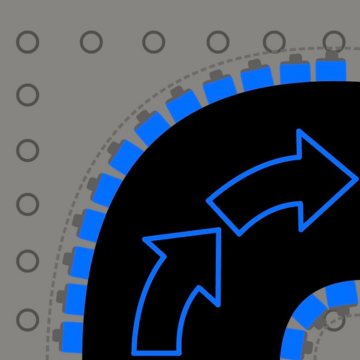
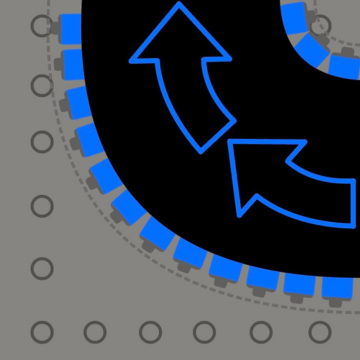
blue green and curved conveybelts show as  intendend

diff --git a/types/boardElements.ts b/types/boardElements.ts
@@ -74,10 +74,23 @@ export function getElementImage(elements: BoardElement[] | undefined): string | 
   // Handle conveyors based on their beltType
   const belt = elements.find((element) => element.type === 'CONVEYOR_BELT');
   if (belt) {
-    return belt.beltType === 'BLUE'
-      ? '/boardElements/conveyor_blue_straight.png'
-      : '/boardElements/conveyor_green_straight.png';
+  switch (belt.beltType) {
+    case 'BLUE_STRAIGHT':
+      return '/boardElements/conveyor_blue_straight.png';
+    case 'BLUE_LEFT_CURVE':
+      return '/boardElements/conveyor_blue_left.png';
+    case 'BLUE_RIGHT_CURVE':
+      return '/boardElements/conveyor_blue_right.png';
+    case 'GREEN_STRAIGHT':
+      return '/boardElements/conveyor_green_straight.png';
+    case 'GREEN_LEFT_CURVE':
+      return '/boardElements/conveyor_green_left.png';
+    case 'GREEN_RIGHT_CURVE':
+      return '/boardElements/conveyor_green_right.png';
+    default:
+      return null;
   }
+}
 
   return null;
 }

diff --git a/types/board.ts b/types/board.ts
@@ -11,7 +11,14 @@ export type Direction = 'NORTH' | 'EAST' | 'SOUTH' | 'WEST';
 
 export type BoardElement =
   | { type: 'WALL'; side: Direction }
-  | { type: 'CONVEYOR_BELT'; direction: Direction; beltType: 'GREEN' | 'BLUE'; length: number }
+  | { type: 'CONVEYOR_BELT'; direction: Direction; beltType:
+                                          | 'BLUE_STRAIGHT'
+                                          | 'BLUE_LEFT_CURVE'
+                                          | 'BLUE_RIGHT_CURVE'
+                                          | 'GREEN_STRAIGHT'
+                                          | 'GREEN_LEFT_CURVE'
+                                          | 'GREEN_RIGHT_CURVE'; 
+                                          length: number }
   | { type: 'GEAR'; rotationDirection: 'CLOCKWISE' | 'COUNTERCLOCKWISE' }
   | { type: 'LASER_EMITTER'; direction: Direction; damage: number }
   | { type: 'PUSH_PANEL'; pushDirection: Direction; registers: number[] }
